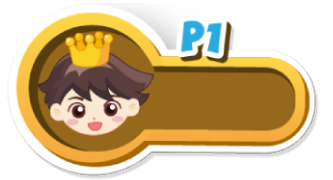
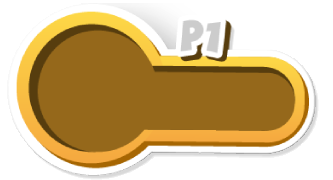
updated playerIcon for future runtime update

diff --git a/src/css/game.css b/src/css/game.css
@@ -224,6 +224,45 @@
   text-shadow: calc(min(0.2vh, 0.2vw)) calc(min(0.2vh, 0.2vw)) #000;
 }
 /*-----------------------------------------------------------------------------------------------*/
+.gameWrapper > .topLeftControl > .scoreWrapper > .playerText {
+  position: absolute;
+  color: #3cadee;
+  font-size: calc(min(2.8vh, 2.8vw));
+  top: calc(min(0.5vh, 0.5vw));
+  right: calc(min(7.2vh, 7.2vw));
+  font-family: 'BoinkLETPlain', sans-serif;
+  font-weight: normal;
+}
+/*-----------------------------------------------------------------------------------------------*/
+.gameWrapper > .topLeftControl > .scoreWrapper > .playerIcon {
+  position: absolute;
+  top: calc(min(2vh, 2vw));
+  right: calc(min(11vh, 11vw));
+  width: calc(min(8.2vh, 8.2vw));
+  height: auto;
+  border-radius: 50%;
+  overflow: hidden;
+  display: flex;
+  align-items: center;
+  justify-content: center;
+}
+.gameWrapper > .topLeftControl > .scoreWrapper > .playerIcon img {
+  width: 100%;
+  height: auto;
+  object-fit: cover;
+}
+/*-----------------------------------------------------------------------------------------------*/
+.gameWrapper > .topLeftControl > .scoreWrapper > .scoreText {
+  position: absolute;
+  color: #fff;
+  font-size: calc(min(3.5vh, 3.5vw));
+  top: calc(min(4vh, 4vw));
+  right: calc(min(5.7vh, 5.7vw));
+  font-family: 'BoinkLETPlain', sans-serif;
+  font-weight: normal;
+  text-shadow: calc(min(0.2vh, 0.2vw)) calc(min(0.2vh, 0.2vw)) #000;
+}
+/*-----------------------------------------------------------------------------------------------*/
 .gameWrapper > .topLeftControl > .timeWrapper {
   position: relative;
 }

diff --git a/src/css/canvas.css b/src/css/canvas.css
@@ -61,7 +61,7 @@
   transform: translate(-50%, 50%);
   transition: opacity 0.1s ease;
   text-align: center;
-  font-size: calc(min(3.5vh, 3.5vw));
+  font-size: calc(min(4.5vh, 4.5vw));
   /*font-family: "Arzachel", system-ui;*/
   font-family: 'PoetsenOne', sans-serif;
   font-weight: 100;
@@ -107,7 +107,7 @@
   text-align: center;
   background-color: rgb(192 134 97);
   border-radius: 4%;
-  font-size: calc(min(3.5vh, 3.5vw));
+  font-size: calc(min(4.5vh, 4.5vw));
   /*font-family: "Arzachel", system-ui;*/
   font-family: 'PoetsenOne', sans-serif;
   font-weight: 100;

diff --git a/index.html b/index.html
@@ -107,7 +107,11 @@
       </div>
       <div class="scoreWrapper">
         <img class="scoreBoard"></img>
+        <div class="playerText">P1</div>
         <div class="scoreText"></div>
+        <div class="playerIcon">
+          <img src="./src/images/phonics/p1_icon.png" alt="Player Icon">
+        </div>
       </div>
     </div>
     <div class="topRightControl">
